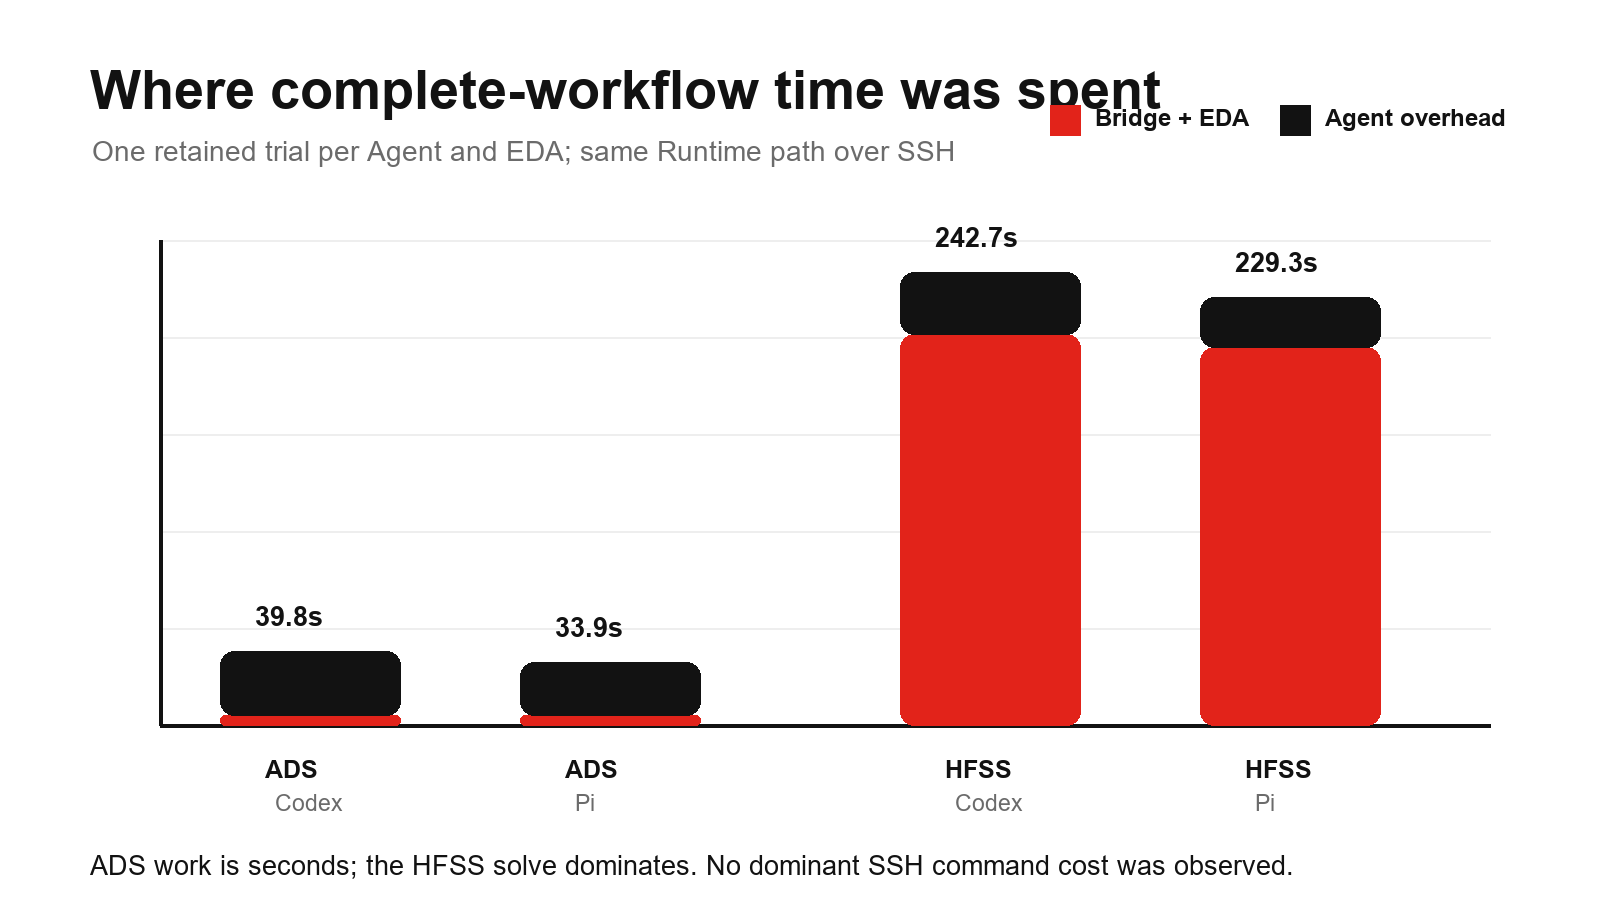
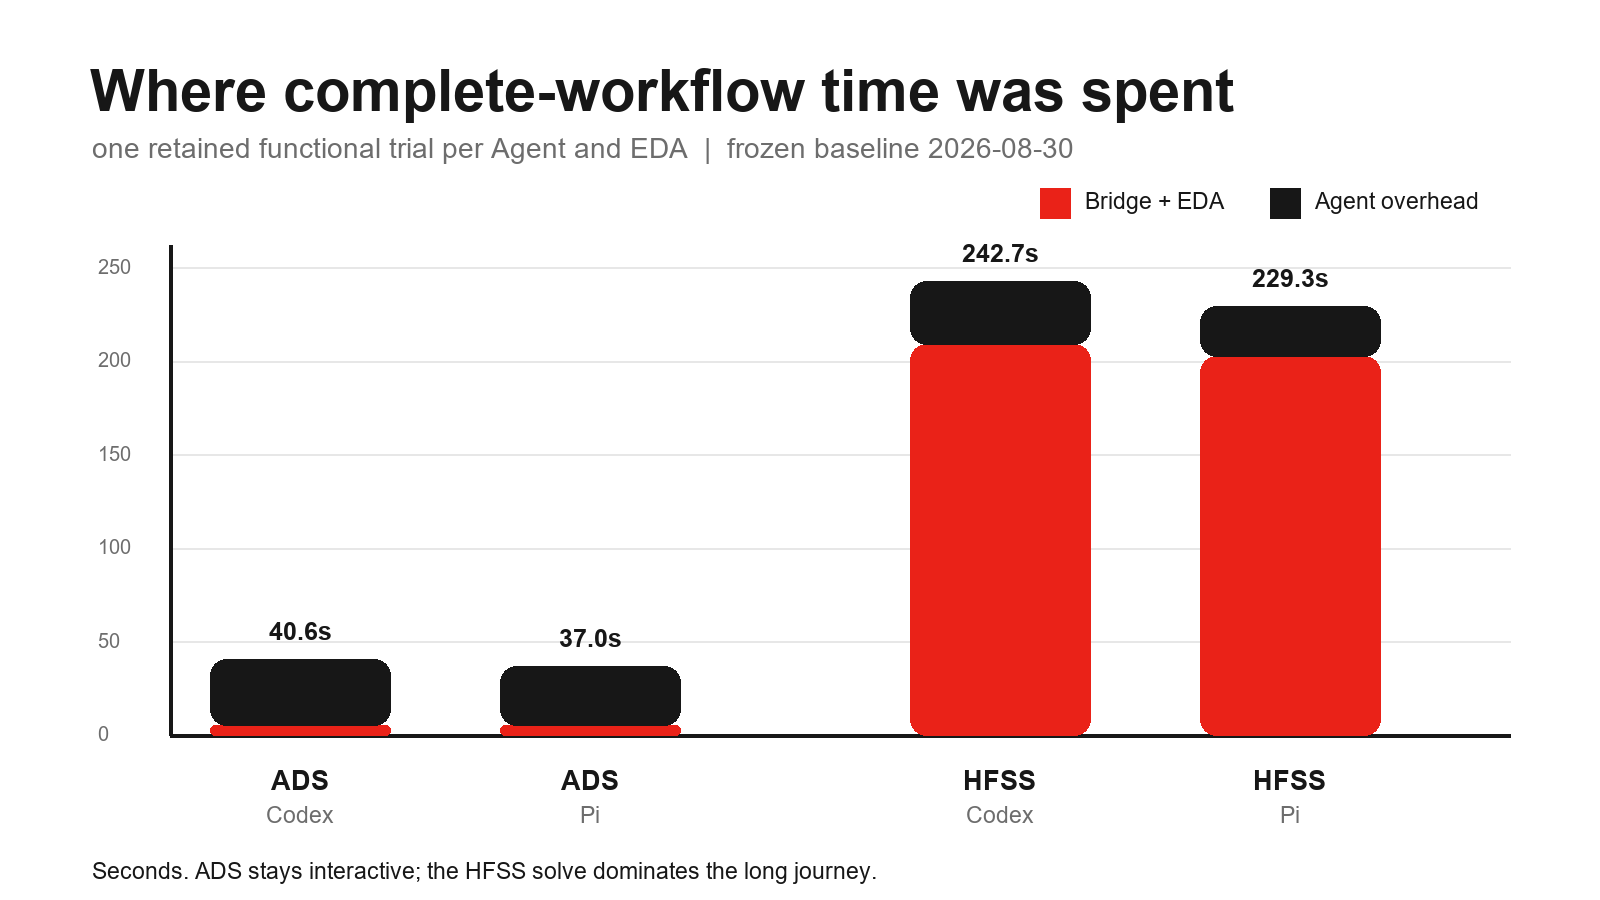
docs: unify public performance baselines

diff --git a/scripts/render_public_readme_charts.py b/scripts/render_public_readme_charts.py
@@ -1,0 +1,207 @@
+from __future__ import annotations
+
+import json
+import math
+from pathlib import Path
+
+from PIL import Image, ImageDraw, ImageFont
+
+ROOT = Path(__file__).resolve().parents[1]
+DATA_PATH = ROOT / "evals" / "public-readme-data-v1.json"
+OUTPUT = ROOT / "docs" / "assets" / "readme"
+
+WIDTH = 1600
+HEIGHT = 900
+WHITE = "#ffffff"
+INK = "#171717"
+MUTED = "#6d6d6d"
+GRID = "#e7e7e7"
+RED = "#ea2218"
+PALE_RED = "#f8b9b5"
+
+
+def _font(size: int, *, bold: bool = False) -> ImageFont.FreeTypeFont:
+    candidates = [
+        Path("C:/Windows/Fonts/arialbd.ttf" if bold else "C:/Windows/Fonts/arial.ttf"),
+        Path(
+            "/usr/share/fonts/truetype/dejavu/DejaVuSans-Bold.ttf"
+            if bold
+            else "/usr/share/fonts/truetype/dejavu/DejaVuSans.ttf"
+        ),
+    ]
+    for path in candidates:
+        if path.is_file():
+            return ImageFont.truetype(str(path), size=size)
+    raise FileNotFoundError("No supported public chart font was found")
+
+
+TITLE = _font(58, bold=True)
+SUBTITLE = _font(28)
+LABEL = _font(27, bold=True)
+BODY = _font(23)
+SMALL = _font(20)
+VALUE = _font(25, bold=True)
+
+
+def _canvas(title: str, subtitle: str) -> tuple[Image.Image, ImageDraw.ImageDraw]:
+    image = Image.new("RGB", (WIDTH, HEIGHT), WHITE)
+    draw = ImageDraw.Draw(image)
+    draw.text((90, 58), title, font=TITLE, fill=INK)
+    draw.text((92, 132), subtitle, font=SUBTITLE, fill=MUTED)
+    return image, draw
+
+
+def _save(image: Image.Image, name: str) -> None:
+    OUTPUT.mkdir(parents=True, exist_ok=True)
+    image.save(OUTPUT / name, optimize=True)
+
+
+def render_complete_workflows(data: dict) -> None:
+    section = data["complete_workflows"]
+    image, draw = _canvas(
+        "Where complete-workflow time was spent",
+        f"{section['sample']}  |  frozen baseline {section['date']}",
+    )
+    rows = section["rows"]
+    left, top, right, bottom = 170, 245, 1510, 735
+    maximum = max(row["total_seconds"] for row in rows) * 1.08
+    for tick in range(0, 251, 50):
+        y = bottom - (tick / maximum) * (bottom - top)
+        draw.line((left, y, right, y), fill=GRID, width=2)
+        draw.text((98, y - 13), str(tick), font=SMALL, fill=MUTED)
+    draw.line((left, top, left, bottom), fill=INK, width=4)
+    draw.line((left, bottom, right, bottom), fill=INK, width=4)
+
+    centers = [300, 590, 1000, 1290]
+    bar_width = 180
+    for center, row in zip(centers, rows, strict=True):
+        total = row["total_seconds"]
+        bridge = row["bridge_eda_seconds"]
+        bridge_h = bridge / maximum * (bottom - top)
+        total_h = total / maximum * (bottom - top)
+        x0, x1 = center - bar_width // 2, center + bar_width // 2
+        draw.rounded_rectangle((x0, bottom - bridge_h, x1, bottom), radius=16, fill=RED)
+        draw.rounded_rectangle((x0, bottom - total_h, x1, bottom - bridge_h), radius=16, fill=INK)
+        text = f"{total:.1f}s"
+        box = draw.textbbox((0, 0), text, font=VALUE)
+        draw.text(
+            (center - (box[2] - box[0]) / 2, bottom - total_h - 42), text, font=VALUE, fill=INK
+        )
+        label_lines = row["label"].split("\n")
+        draw.text((center, 765), label_lines[0], font=LABEL, fill=INK, anchor="ma")
+        draw.text((center, 802), label_lines[1], font=BODY, fill=MUTED, anchor="ma")
+
+    draw.rectangle((1040, 188, 1070, 218), fill=RED)
+    draw.text((1085, 188), "Bridge + EDA", font=BODY, fill=INK)
+    draw.rectangle((1270, 188, 1300, 218), fill=INK)
+    draw.text((1315, 188), "Agent overhead", font=BODY, fill=INK)
+    draw.text(
+        (92, 858),
+        "Seconds. ADS stays interactive; the HFSS solve dominates the long journey.",
+        font=BODY,
+        fill=INK,
+    )
+    _save(image, "runtime-complete-workflow-time.png")
+
+
+def render_bounded_agent_tests(data: dict) -> None:
+    section = data["bounded_agent_tests"]
+    image, draw = _canvas(
+        "One Runtime. Two Agents. Real EDA work.",
+        f"{section['sample']}  |  frozen baseline {section['date']}  |  lower is faster",
+    )
+    rows = section["rows"]
+    chart_left, chart_right = 560, 1450
+    top, row_gap = 235, 93
+    maximum = max(max(row["codex_seconds"], row["pi_seconds"]) for row in rows) * 1.12
+
+    for index, row in enumerate(rows):
+        y = top + index * row_gap
+        draw.text((92, y + 16), row["label"], font=LABEL, fill=INK)
+        for offset, key, color in ((0, "codex_seconds", INK), (37, "pi_seconds", RED)):
+            value = row[key]
+            x1 = chart_left + value / maximum * (chart_right - chart_left)
+            draw.rounded_rectangle(
+                (chart_left, y + offset, x1, y + offset + 25), radius=12, fill=color
+            )
+            draw.text((x1 + 14, y + offset - 2), f"{value:.1f}s", font=VALUE, fill=color)
+
+    draw.ellipse((90, 807, 116, 833), fill=INK)
+    draw.text((129, 805), "Codex", font=BODY, fill=INK)
+    draw.ellipse((245, 807, 271, 833), fill=RED)
+    draw.text((284, 805), "Pi Agent", font=BODY, fill=INK)
+    draw.text((560, 805), "Same typed Runtime / Bridge path", font=BODY, fill=MUTED)
+    draw.text(
+        (92, 858),
+        "Agent-heavy work shows the largest gap; EDA-lifecycle-heavy work converges.",
+        font=BODY,
+        fill=INK,
+    )
+    _save(image, "codex-pi-bounded-tests.png")
+
+
+def _log_x(value_ms: float, left: int, right: int) -> float:
+    return left + math.log10(value_ms) / 3 * (right - left)
+
+
+def render_supervised_live_edit(data: dict) -> None:
+    section = data["supervised_live_edit"]
+    image, draw = _canvas(
+        "Sub-second edits in the open EDA session",
+        f"Bounded supervised acceptance  |  {section['date']}  |  "
+        "no restart or project copy per patch",
+    )
+    axis_left, axis_right = 490, 1480
+    plot_top, plot_bottom = 245, 750
+    for tick, text in ((1, "1 ms"), (10, "10 ms"), (100, "100 ms"), (1000, "1 s")):
+        x = _log_x(tick, axis_left, axis_right)
+        draw.line((x, plot_top, x, plot_bottom), fill=GRID, width=2)
+        draw.text((x, 770), text, font=SMALL, fill=MUTED, anchor="ma")
+
+    panel_tops = [230, 500]
+    for panel_top, vendor in zip(panel_tops, section["vendors"], strict=True):
+        draw.text((92, panel_top), vendor["name"], font=LABEL, fill=INK)
+        draw.text((92, panel_top + 38), vendor["accepted_version"], font=SMALL, fill=MUTED)
+        for index, metric in enumerate(vendor["metrics"]):
+            y = panel_top + 88 + index * 42
+            draw.text((245, y - 12), metric["label"], font=BODY, fill=INK)
+            if "value_ms" in metric:
+                value = metric["value_ms"]
+                x = _log_x(value, axis_left, axis_right)
+                draw.line((axis_left, y, x, y), fill=GRID, width=5)
+                draw.ellipse((x - 9, y - 9, x + 9, y + 9), fill=RED)
+                draw.text((x + 18, y - 14), f"{value} ms", font=VALUE, fill=INK)
+            else:
+                low, high = metric["low_ms"], metric["high_ms"]
+                x0, x1 = _log_x(low, axis_left, axis_right), _log_x(high, axis_left, axis_right)
+                draw.line((x0, y, x1, y), fill=PALE_RED, width=12)
+                draw.ellipse((x0 - 8, y - 8, x0 + 8, y + 8), fill=RED)
+                draw.ellipse((x1 - 8, y - 8, x1 + 8, y + 8), fill=RED)
+                draw.text((x1 + 18, y - 14), f"{low}–{high} ms", font=VALUE, fill=INK)
+
+    draw.text(
+        (92, 824),
+        "Shared result: immediate readback · zero duplicate objects on exact replay · "
+        "patch-local rollback · Codex and Pi passed",
+        font=BODY,
+        fill=INK,
+    )
+    draw.text(
+        (92, 860),
+        "Log scale. Vendor timing boundaries differ; each panel is a workflow "
+        "baseline, not a vendor ranking.",
+        font=SMALL,
+        fill=MUTED,
+    )
+    _save(image, "supervised-live-edit-latency.png")
+
+
+def main() -> None:
+    data = json.loads(DATA_PATH.read_text(encoding="utf-8"))
+    render_complete_workflows(data)
+    render_bounded_agent_tests(data)
+    render_supervised_live_edit(data)
+
+
+if __name__ == "__main__":
+    main()

diff --git a/tests/test_public_readme_assets.py b/tests/test_public_readme_assets.py
@@ -1,0 +1,32 @@
+import json
+from pathlib import Path
+
+ROOT = Path(__file__).resolve().parents[1]
+
+
+def test_public_chart_data_and_bilingual_readmes_stay_aligned() -> None:
+    data = json.loads((ROOT / "evals" / "public-readme-data-v1.json").read_text(encoding="utf-8"))
+    english = (ROOT / "README.md").read_text(encoding="utf-8")
+    chinese = (ROOT / "README.zh-CN.md").read_text(encoding="utf-8")
+
+    assert data["schema"] == "eda.public-readme-data/v1"
+    for relative_path in (
+        "docs/assets/readme/runtime-complete-workflow-time.png",
+        "docs/assets/readme/codex-pi-bounded-tests.png",
+        "docs/assets/readme/supervised-live-edit-latency.png",
+    ):
+        assert (ROOT / relative_path).is_file()
+        assert relative_path in english
+        assert relative_path in chinese
+
+    for value in ("40.594", "36.953", "5.157", "93–187", "296–453"):
+        assert value in english
+        assert value in chinese
+
+
+def test_public_chart_generator_is_tracked_and_source_backed() -> None:
+    generator = ROOT / "scripts" / "render_public_readme_charts.py"
+    data_path = ROOT / "evals" / "public-readme-data-v1.json"
+    assert generator.is_file()
+    assert data_path.is_file()
+    assert "public-readme-data-v1.json" in generator.read_text(encoding="utf-8")

diff --git a/README.md b/README.md
@@ -59,6 +59,30 @@ of truth or the only route to that capability.
 
 ## What the public tests show
 
+![Observed supervised live-edit latency in ADS and AEDT](docs/assets/readme/supervised-live-edit-latency.png)
+
+When the engineer is watching the open EDA application, small supervised edits
+stay in that same graphical process. The accepted ADS and AEDT paths apply a
+typed patch, read the changed object back immediately, preserve an exact retry
+without creating duplicates, and can roll back only that patch without saving.
+
+| Accepted live operation | ADS 2026 Update 2.1 | AEDT 2026 R1 |
+| --- | ---: | ---: |
+| Warm edit | 93–187 ms | 296–453 ms |
+| Create object(s) + readback | 253 ms | 937 ms |
+| Exact replay, zero duplicate objects | 3 ms | 12 ms |
+| Patch-local rollback | 21 ms | 204 ms |
+
+These are bounded functional observations from disposable projects on
+2026-08-31, not a statistical vendor comparison. ADS reports end-to-end warm
+calls and Bridge round trips for object operations; AnsysEM reports warm live
+calls and adapter time. Both Codex and Pi Agent passed the create, replay, and
+rollback contract. The [machine-readable source data](evals/public-readme-data-v1.json)
+and [chart generator](scripts/render_public_readme_charts.py) keep this public
+presentation tied to the retained evidence.
+
+### Complete journeys show where long-task time goes
+
 ![Complete ADS and HFSS workflow time split between the Agent and the actual Bridge plus EDA work](docs/assets/readme/runtime-complete-workflow-time.png)
 
 The newest acceptance cases are complete user journeys, not isolated API calls.
@@ -70,19 +94,21 @@ each journey with exactly one Runtime plan.
 
 | Journey | Codex wall / Bridge + EDA | Pi wall / Bridge + EDA |
 | --- | ---: | ---: |
-| ADS circuit → data → DDS | 39.782 s / 5.438 s | 33.922 s / 5.140 s |
+| ADS circuit → data → two-page DDS | 40.594 s / 5.157 s | 36.953 s / 5.157 s |
 | HFSS layout → solve → report | 242.657 s / 209.360 s | 229.328 s / 202.641 s |
 
-These are one retained functional trial per Agent and EDA, not statistical
-speed claims. They show the useful boundary: the ADS engineering work took
+These are the final frozen 2026-08-30 public baseline: one retained functional
+trial per Agent and EDA, not statistical speed claims. They show the useful
+boundary: the ADS engineering work took
 seconds, while the HFSS solve dominated the long workflow. Packet-level network
 time was not measured separately, but no dominant SSH command cost was observed.
 
 ![Codex and Pi Agent wall time across six bounded repeated EDA tests](docs/assets/readme/codex-pi-bounded-tests.png)
 
-The chart reports median wall time from six bounded public test cases, with
-three trials per Agent and task. Both Agents used the same Runtime and Bridge
-path. Agent-heavy tasks show the largest difference; AEDT-lifecycle-heavy work
+The chart reports the frozen 2026-08-30 median wall time from six bounded public
+test cases, with three trials per Agent and task. Both Agents used the same
+Runtime and Bridge path. Agent-heavy tasks show the largest difference;
+AEDT-lifecycle-heavy work
 is dominated by the EDA itself. This is an engineering baseline, not a universal
 Agent ranking. See the [full method, pass rates, and interpretation boundary](evals/BASELINE_2026-08-30_CODEX_PI_SUMMARY.md).
 

diff --git a/docs/assets/README.md b/docs/assets/README.md
@@ -9,6 +9,14 @@ project, EDA screenshot, private host information, or vendor artwork.
 ADS and HFSS acceptance results documented in `docs/ACCEPTANCE.md`; it is one
 functional trial per Agent and EDA, not a statistical speed ranking.
 
+`readme/codex-pi-bounded-tests.png` and
+`readme/runtime-complete-workflow-time.png` are frozen 2026-08-30 baselines.
+`readme/supervised-live-edit-latency.png` adds the bounded 2026-08-31 live-edit
+acceptance for ADS and AEDT. The machine-readable values for all three charts
+are in `evals/public-readme-data-v1.json`; regenerate them with
+`python scripts/render_public_readme_charts.py`. The live-edit panels use
+different vendor timing boundaries and are explicitly not a vendor ranking.
+
 `readme/ads-native-dds.png` is the editable native ADS Data Display left by the
 public synthetic acceptance. `readme/ansys-native-s-parameters.png` is the
 persisted native AEDT Report from the solved public acceptance. Neither result

diff --git a/docs/ACCEPTANCE.md b/docs/ACCEPTANCE.md
@@ -68,6 +68,10 @@ found are recorded in the
 - Large Pi case prompts now use Pi's native `@file` input. This removed the Windows command-line
   limit while leaving the prompt file disposable and keeping shell/file tools unavailable to the
   Agent. Installed-profile evaluation also avoids injecting a duplicate Runtime extension.
+- The later final ADS multi-page DDS rerun is the public README baseline: Codex 40.594 seconds,
+  Pi 36.953 seconds, and a matched 5.157-second ADS boundary for both. The alpha.28 values above
+  remain a retained earlier functional trial rather than being silently rewritten. See
+  `evals/BASELINE_2026-08-30_CODEX_PI_SUMMARY.md`.
 - Both workflows used synthetic scratch only, `DISPLAY=:4.0`, explicit mutation and solve approval,
   source preservation, fresh-reopen evidence, and no GUI coordinates, arbitrary vendor code, or
   customer data.
